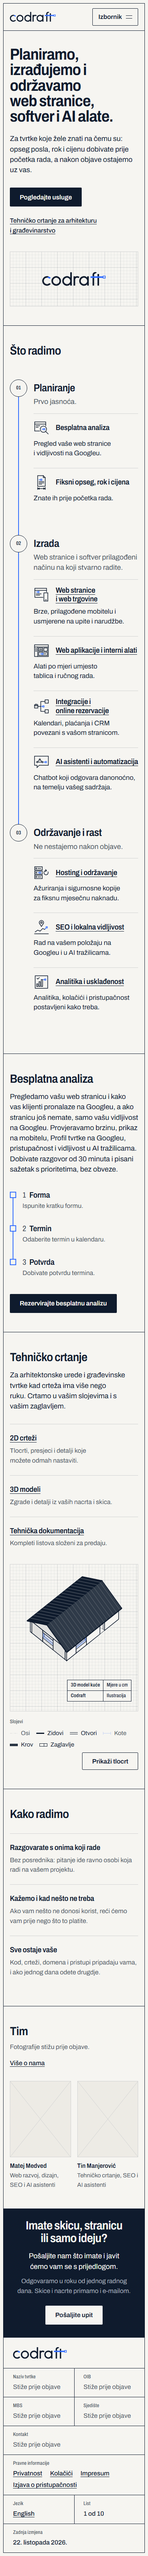
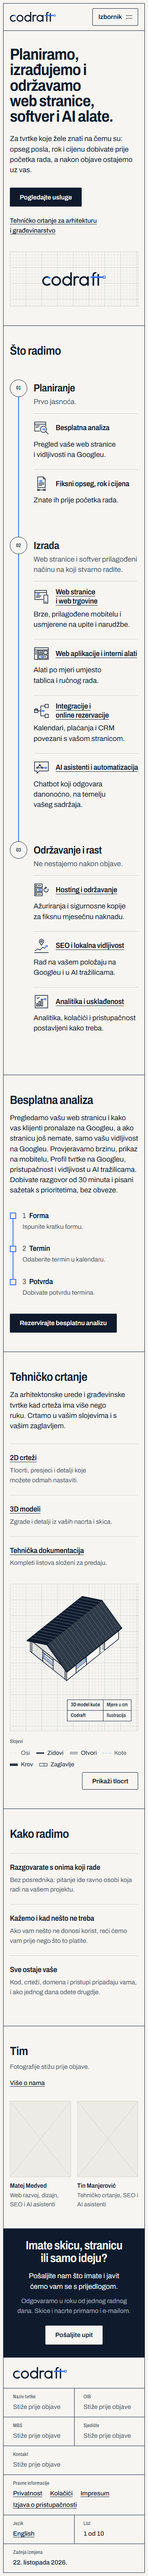
fix(home): one type scale, and drawings that never stay hidden
On the client's word (M3):
- the two local type sizes go (option A of #59, ADR 0030): the steps'
  titles at --step-title, the services' lines at --step-lead
- "Što radimo" hides its line and icons only once axis-line.ts has
  taken the axis over (is-live); before that they wait unseen from the
  first paint as before, and show complete after a 3 s failsafe if the
  script never takes over; when motion is turned on after load, the
  script takes over then
- before printing, draw.ts shows every waiting part's final state and
  finishes the moving ones, and the axis completes

diff --git a/src/views/home/axis-line.ts b/src/views/home/axis-line.ts
@@ -19,12 +19,18 @@
  * - An IntersectionObserver switches the scroll handling on only while the
  *   section is near the screen.
  *
+ * - The script takes the axis over (`is-live`); only then does the CSS hide
+ *   what it draws. If it comes later than the CSS's failsafe, which by then
+ *   shows the axis complete, it leaves the axis so. If motion is turned on
+ *   after the page has loaded, it takes over then. Before printing it
+ *   completes the axis (the /check of phase 3).
+ *
  * Only the line and the icons wait; the text never does. Without
  * JavaScript, or with reduced motion, the CSS shows them complete and this
  * script does nothing.
  */
 import { timeStrokes } from "../../features/services/icons/icon-draw.ts";
-import { DURATION_MS, prefersReducedMotion } from "../../styles/motion.ts";
+import { DURATION_MS, REDUCED_MOTION_QUERY } from "../../styles/motion.ts";
 
 /** The tip aims at this share of the screen's height. */
 const AIM = 0.85;
@@ -129,6 +135,12 @@ function startPassed(axis: Axis, instantUpTo: number): void {
 function init(root: HTMLElement): void {
   const line = root.querySelector<HTMLElement>("[data-axis-line]");
   if (line === null) return;
+  // Past its failsafe the CSS already shows the axis complete: leave it so.
+  const stroke = root.querySelector("[data-stroke]");
+  if (stroke !== null && getComputedStyle(stroke).visibility === "visible") {
+    return;
+  }
+  root.classList.add("is-live");
   const axis: Axis = {
     root,
     line,
@@ -207,12 +219,36 @@ function init(root: HTMLElement): void {
     window.removeEventListener("scroll", wake);
   }
 
+  // A printed page shows the axis complete.
+  window.addEventListener(
+    "beforeprint",
+    () => {
+      axis.aim = axis.length;
+      axis.tip = axis.length;
+      render(axis);
+      for (const service of axis.waiting) {
+        service.item.classList.add("is-drawn", "is-instant");
+      }
+      axis.waiting = [];
+      stop();
+    },
+    { once: true },
+  );
+
   near.observe(root);
   resize.observe(root);
 }
 
-if (!prefersReducedMotion()) {
+function start(): void {
   for (const root of document.querySelectorAll<HTMLElement>("[data-axis]")) {
     init(root);
   }
+}
+
+const reducedMotion = window.matchMedia(REDUCED_MOTION_QUERY);
+if (reducedMotion.matches) {
+  // Motion turned on after the page has loaded: the axis takes over then.
+  reducedMotion.addEventListener("change", start, { once: true });
+} else {
+  start();
 }

diff --git a/src/views/home/services.css b/src/views/home/services.css
@@ -7,8 +7,8 @@
 
 .svc {
   --bubble: 2.75rem;
-  /* The services' one line, larger than body text (review batch 3). */
-  --step-service: clamp(1.0625rem, 1rem + 0.2vw, 1.1875rem);
+  /* How long the line and the icons wait unseen for axis-line.ts. */
+  --axis-failsafe: 3s;
 }
 
 .svc > h2 {
@@ -76,12 +76,22 @@
 }
 
 @media (prefers-reduced-motion: no-preference) {
-  /* One line, set by the script, in place of the rails. */
-  .js [data-axis] .svc-rail {
+  /* Until axis-line.ts takes the axis over (`is-live`), the rails and the
+     icons wait unseen from the first paint, so they never flash complete.
+     If the script never takes over (it failed to load, or came later than
+     --axis-failsafe), they show complete then (the /check of phase 3). */
+  .js [data-axis]:not(.is-live) :is(.svc-rail, [data-stroke]) {
+    visibility: hidden;
+    animation: axis-failsafe 0s var(--axis-failsafe) forwards;
+  }
+
+  /* Once the script has the axis: one line, set by it, in place of the
+     rails. */
+  [data-axis].is-live .svc-rail {
     display: none;
   }
 
-  .js .axis__line {
+  [data-axis].is-live .axis__line {
     display: block;
     transform: scaleY(var(--progress, 0));
   }
@@ -89,7 +99,7 @@
   /* An icon isn't there until its row starts; then its strokes run along
      their paths (icon-draw.ts) and the grip snaps in. Once drawn, a stroke
      is plain again. */
-  .js [data-axis-item]:not(.is-drawn) [data-stroke] {
+  [data-axis].is-live [data-axis-item]:not(.is-drawn) [data-stroke] {
     opacity: 0;
   }
 
@@ -104,6 +114,20 @@
     transform-origin: center;
     animation: icon-grip var(--motion-fast) var(--ease-spring) var(--at, 0ms)
       backwards;
+  }
+}
+
+/* A printed page shows the axis complete; axis-line.ts completes a live
+   one before printing. */
+@media print {
+  .js [data-axis]:not(.is-live) :is(.svc-rail, [data-stroke]) {
+    visibility: visible;
+  }
+}
+
+@keyframes axis-failsafe {
+  to {
+    visibility: visible;
   }
 }
 

diff --git a/src/components/ui/draw.ts b/src/components/ui/draw.ts
@@ -25,6 +25,10 @@
  * R2). A part with `data-draw-steady` keeps its own pace: it never hurries,
  * so a part behind it waits for the whole of it (the floor plan, R3).
  *
+ * A printed page shows every part complete: before printing, the parts
+ * still waiting show their final state and the moving ones finish (the
+ * /check of phase 3).
+ *
  * Imported by the components' scripts; a module runs once per page however
  * many components import it.
  */
@@ -305,9 +309,24 @@ function initWordmarkEntrances(): void {
   }
 }
 
+/** Before printing, every part shows its final state. */
+function initPrint(): void {
+  window.addEventListener("beforeprint", () => {
+    waiting.length = 0;
+    requested.clear();
+    for (const part of document.querySelectorAll(".is-pending")) {
+      if (!part.classList.contains("is-drawing")) {
+        part.classList.remove("is-pending");
+      }
+    }
+    for (const part of moving.keys()) finish(part);
+  });
+}
+
 if (!prefersReducedMotion()) {
   initDraws();
   initBottomOfPage();
   initReplays();
   initWordmarkEntrances();
+  initPrint();
 }

diff --git a/docs/phases/3-pages.md b/docs/phases/3-pages.md
@@ -1,6 +1,6 @@
 # Phase 3: Pages (Izrada stranica)
 
-- **Status:** In progress, from 2026-10-22. Phase 2 was approved and merged into `main` (PR #2). Page 1, Početna: built in both languages, critique 19 done, `/check` with no CRITICAL or HIGH findings; waiting for the client's review and the decision on the two local type sizes (#59).
+- **Status:** In progress, from 2026-10-22. Phase 2 was approved and merged into `main` (PR #2). Page 1, Početna: built in both languages, critique 19 and #59 done (ADR 0030), the /check fixes the client approved done (M3); waiting for the client's word on Home before page 2, Usluge.
 - **Branch:** `phase/3-pages`, created from `main` after the merge of PR #2. Draft PR #3 is the phase report.
 
 ## Start here (2026-10-21)
@@ -91,7 +91,7 @@ The AI asistenti page is built in phase 4.
 The client moved these items from the phase 2 review to this phase (review batch 23, 2026-10-21, and #59; [2-design-review.md](2-design-review.md#refinements)):
 
 - **English copy** (#70): S17–S19 and every Croatian change of the review, aligned page by page as each page is built in both languages. The changes are listed in [content.md](../content.md) ("Prototype copy" and the changelog): the hero lead, the one-line services, `drafting.3d.*`, the drafting zone of batch 9, "Kako radimo" of batch 10, the closing call to action of batch 11, the floor plan's title block and accessible names (#58, #63–64). The English changes only through suggestions the client approves.
-- **Home's two local type sizes** (#59): when "Što radimo" moves out of the lab, decide whether `--step-service` (19 px at 1440, `src/lab/home/services.css`) and `--step-heading` (25 px, `Steps.astro`) become steps of the type scale or merge into their neighbours; with `--step-title` at 22 px they are three sizes 3 px apart ([inspector's note](../research/2026-10-20-taste-skill-inspect.md#measured-and-real-but-not-defects)).
+- **Home's two local type sizes** (#59): ✓ decided on 2026-10-22, option A ([ADR 0030](../decisions/0030-steps-and-service-lines-on-the-type-scale.md)). When "Što radimo" moves out of the lab, decide whether `--step-service` (19 px at 1440, `src/lab/home/services.css`) and `--step-heading` (25 px, `Steps.astro`) become steps of the type scale or merge into their neighbours; with `--step-title` at 22 px they are three sizes 3 px apart ([inspector's note](../research/2026-10-20-taste-skill-inspect.md#measured-and-real-but-not-defects)).
 - **The Kowalski proposals** (#71), for the client to choose from while the pages are built: a 320 px overflow check, worst-case data in the phase documents, a motion-code checklist, a variant picker with replay ([research note](../research/2026-10-20-emil-kowalski-skills.md#proposed-for-the-client)).
 - **The browser bar's colour** (#72): navy `#0F1B2D` from the brand package, or the header's paper `#F6F5F1`. Try both on a real Android phone (DevTools can't show the bar), changing only the meta tag and the manifest copy in `public/`, never the brand masters; the client decides ([ADR 0026](../decisions/0026-emil-kowalski-skills-in-the-setup.md)).
 - **The hero's line count on 1440 px laptops** (#74): three lines there, two from about 1660 px. Check it with the client once every page is built; show both side by side before changing anything.
@@ -237,4 +237,14 @@ Each of the client's messages is recorded here verbatim before anything changes.
     - **LOW**, noted for the coming pages: the stages' anchors in `services.ts` are for `/usluge`; the view registry's type widens with the second view; the JSON-LD keeps one `@id` for both languages on purpose.
     - Screenshots from the build, final states: [screenshots/phase-3/](screenshots/phase-3/) (`pocetna-{hr,en}-{375,768,1440}.png`).
     - **E2E:** CI's first run failed before any test: Playwright's loader can't import the locale JSON through `t()` without an import attribute, so the smoke test reads the strings with `fs` (`18986e3`). All 51 E2E tests pass on the build locally (on port 4322, so the dev server on 4321 kept running) and in CI.
-  - **Open for the client** (put to the client with the page): the two local type sizes (#59); the MEDIUM findings above. The English footer's placeholder "Arrives before launch" takes two lines in the title block's narrow cells; it goes away with the company data.
+  - **M3**, the client's answer to the review, verbatim:
+
+    > 1. Idemo po A preopruci za lokalne veličine slova
+    > 2. Ako preopručaš popravak popravi
+  - **The two local type sizes (#59), option A** ([ADR 0030](../decisions/0030-steps-and-service-lines-on-the-type-scale.md)): the steps' titles at `--step-title` (22 px at 1440, were 25), the services' lines at `--step-lead` everywhere (1–2 px larger on phones). "Što radimo" is 53 px taller at 375 and 30 px at 768; from 1024 px no zone changes height. The lab follows in its steps, which are the shared component.
+  - **The /check fixes Claude recommended** (MEDIUM 1 and 4; 2 and 3 need no change):
+    - "Što radimo": `axis-line.ts` takes the axis over with `is-live`, and only then does the CSS hide what the script draws. Before that, from the first paint, the rails and the icons wait unseen as before, so nothing changes on screen; if the script never takes over, they show complete after a 3 s failsafe (`--axis-failsafe`), and if motion is turned on after the page has loaded, the script takes over then.
+    - Printing: before printing, `draw.ts` shows every waiting part's final state and finishes the moving ones (the plan, the steps, the zones' selections, on every page), and the axis completes; a print rule covers an axis the script never took over. Documented in [motion.md](../motion.md).
+    - Checked on the dev server and on the build under the CSP: with the axis script blocked, the rails and icons appear complete after 3.5 s; with reduced motion at load and motion turned on after, the script takes over and draws everything on the way down; before printing at the top of the page, nothing is hidden or pending and the line is complete. The normal path is unchanged: every part draws after a slow scroll, nothing is hidden without JavaScript, no console errors, axe clean, no overflow at 375, 768 and 1440 px; `npm run verify` (178 unit tests, 4.2 KB of JavaScript on Home); E2E 51 on the build.
+    - The screenshots in [screenshots/phase-3/](screenshots/phase-3/) are retaken from this build.
+  - **Open for the client** (put to the client with the page): the two local type sizes (#59); the MEDIUM findings above. Both answered in M3, below. The English footer's placeholder "Arrives before launch" takes two lines in the title block's narrow cells; it goes away with the company data.

diff --git a/PROGRESS.md b/PROGRESS.md
@@ -2,7 +2,7 @@
 
 **Trenutna faza:** 3 — Izrada stranica, od 22. 10. 2026., na grani `phase/3-pages`. Izvještaj faze je draft PR #3: https://github.com/matejmedo0/codraft-website/pull/3. Faza 2 (Dizajn) je gotova i odobrena: na vaše „idemo dalje“ 22. 10. 2026. spojena je u `main` (PR #2, merge commit).
 
-**Sljedeći korak:** vaš pregled početne. Izrađena je na `/` i `/en` po odobrenom argumentu (vaš OK, 22. 10. 2026.), s vrijednostima na skali tokena (nalaz 19); `/check` nema CRITICAL ni HIGH nalaza. Čekam vaš pregled i odluku o dvije lokalne veličine slova (#59). Plan faze i koraci za svaku stranicu su u `docs/phases/3-pages.md`. Vaše poruke su doslovno u njegovu dnevniku, označene M1, M2, …
+**Sljedeći korak:** stranica 2, Usluge, na vašu riječ. Početna je izrađena na `/` i `/en` po odobrenom argumentu (vaš OK, 22. 10. 2026.), s vrijednostima na skali tokena (nalaz 19), bez lokalnih veličina slova (#59, ADR 0030) i s popravcima iz `/check` koje ste odobrili. Plan faze i koraci za svaku stranicu su u `docs/phases/3-pages.md`. Vaše poruke su doslovno u njegovu dnevniku, označene M1, M2, …
 
 Redoslijed stranica u fazi 3, svaka na hrvatskom i engleskom:
 1. Početna ← sada
@@ -24,7 +24,7 @@ Podatke od vas (tim, podaci o tvrtki, kontakt…) tražim tek kad ih stranica tr
 - prijedlozi iz procjene Kowalskijevih skillova: provjera preljeva na 320 px, najgori podaci u dokumentima faza, popis pravila za kod animacija, birač varijanti u labu
 - boja trake preglednika na mobitelu (`theme-color`), tamnoplava ili papirnata, isprobana na pravom Android mobitelu (dorada 51; Taste Skill ide u prilog papirnatoj, dorada 55)
 - naslov u heroju na laptopima od 1440 px (sada tri reda), kad sve stranice budu gotove
-- dvije lokalne veličine slova na početnoj
+- ✓ dvije lokalne veličine slova na početnoj (opcija A, ADR 0030)
 - skupina C prve kritike dizajna: hero na 1024 px (6), traka tima (14), vrijednosti izvan skale tokena (19) i tekst (22)
 - vaše čitanje i ispravljanje svih tekstova, na kraju faze 3, za sve stranice zajedno
 
@@ -242,6 +242,7 @@ Svaka odluka ima svoj ADR u `docs/decisions/`.
 | 2026-10-20 | Taste Skill ne instaliramo. Iz njega smo preuzeli:<br>- pet provjera za `design-critic` (okvir stranice, ideja do zadnje zone, test „kostima“, tri razine detalja u crtežima, hrvatske tipografske sitnice)<br>- animacije vezane uz skrol i prijelaze između stranica u skillu `animate`<br>- argument stranice (tvrdnja i dokaz po zoni) kao prvi korak svake stranice u fazi 3<br>Kod stranice se ne mijenja. | [ADR 0027](docs/decisions/0027-taste-skill-ideas-in-the-setup.md) |
 | 2026-10-21 | „Što radimo“ na mobitelu: ikona usluge stoji samo uz naslov, a opis ide ispod nje punom širinom (opcija B iz kritike); od 768 px sve ostaje kao u ADR 0022 | [ADR 0028](docs/decisions/0028-service-icons-on-phones-beside-the-title.md) |
 | 2026-10-22 | Engleski: tehničko crtanje se zove „Architectural Drafting“ (`/en/architectural-drafting`), britanski pravopis, „Croatia“ u engleskim naslovima stranica | [ADR 0029](docs/decisions/0029-english-naming-spelling-and-titles.md) |
+| 2026-10-22 | Bez lokalnih veličina slova: naslovi koraka na veličini ostalih naslova, retci usluga na veličini uvoda (opcija A, #59) | [ADR 0030](docs/decisions/0030-steps-and-service-lines-on-the-type-scale.md) |
 
 ## Sitemap
 

diff --git a/docs/motion.md b/docs/motion.md
@@ -22,7 +22,7 @@ The client asked for animation that is high quality and **not generic**. The con
 - **The line** is one element from bubble 01 to bubble 03, scaled from its top. Its tip follows the screen continuously (batch 15): it reaches down to 85 % of the screen's height as you scroll, eased so that a fast scroll is caught up in about `--motion-follow` (280 ms), smoothly and never in a jerk. It only ever grows; nothing runs backwards when you scroll up. No scroll-jacking: the page scrolls as always, and the line only follows.
 - **The icon** starts as the tip of the line reaches it: its strokes run along their paths in drawing order, at most 60 ms apart, the blue drafting line last, then the grip snaps in (`--motion-fast`, `--ease-spring`). An icon takes at most 450 ms. The right icon of a row starts 40 ms after the left; if the tip passes several rows in one frame, each further row starts 60 ms later. The services below the line's end start when the screen's 85 % mark reaches them.
 - Services already above the screen (a reload mid-page, a jump from a link) show their icons complete at once, and the line jumps past them.
-- Only the line and the icons wait; the text is always there. Their waiting state is set under the `js` class from the first paint. Without JavaScript the line and icons are complete; with reduced motion too. An IntersectionObserver switches the scroll handling on only while the section is near the screen; `will-change` is set only while the line moves.
+- Only the line and the icons wait; the text is always there. Their waiting state is set under the `js` class from the first paint. Without JavaScript the line and icons are complete; with reduced motion too. Once the script takes the axis over (`is-live`) it owns the waiting state; if it never does (it failed to load, or came after a 3 s failsafe), the line and icons show complete. When motion is turned on after the page has loaded, the script takes over then (phase 3, M3). An IntersectionObserver switches the scroll handling on only while the section is near the screen; `will-change` is set only while the line moves.
 
 The earlier behaviour of batch 3 (one stroke at a constant speed once the section reached its trigger) left the lab with its comparison page `/lab/sto-radimo` (review #108); it is in git history.
 
@@ -54,6 +54,8 @@ When `prefers-reduced-motion: reduce` is set:
 - Final states are shown immediately. The logo appears complete and the layers appear all on.
 - Grips still appear on focus, but without the scale animation.
 - Movement goes; meaning stays. Focus, hover, the open menu and every other change of state stay visible, at once or with a short fade, and nothing waits hidden for an animation that never runs ([ADR 0025](decisions/0025-browser-details-and-critique-re-check.md)).
+
+**Printing.** A printed page shows every part complete: before printing, `draw.ts` shows the waiting parts' final states and finishes the moving ones, and the axis in "Što radimo" completes (phase 3, M3).
 
 ## Tokens (built in phase 2, `src/styles/motion.css`)
 

diff --git a/docs/decisions/0030-steps-and-service-lines-on-the-type-scale.md b/docs/decisions/0030-steps-and-service-lines-on-the-type-scale.md
@@ -1,0 +1,20 @@
+# 0030. The steps' titles and the services' lines on the type scale
+
+- **Status:** Accepted
+- **Date:** 2026-10-22
+- **Deciders:** client (Codraft team), Claude
+
+## Context
+
+Home had two type sizes of its own, outside the scale in `src/styles/tokens.css`: `--step-heading` for the titles of the free audit's steps (`Steps.astro`; 20 px on phones, 25 px at 1440 px) and `--step-service` for the services' one-line descriptions in "Što radimo" (`services.css`; 17–19 px, below 64rem). With `--step-title` at 19–22 px they made three sizes about 3 px apart ([inspector's note](../research/2026-10-20-taste-skill-inspect.md#measured-and-real-but-not-defects)). The client moved the decision to phase 3 (review #59). Claude put two options to the client: A, merge each into its neighbour on the scale; B, keep both and name them as tokens. The client chose A (phase 3, M3: „Idemo po A preopruci za lokalne veličine slova“).
+
+## Decision
+
+1. **The steps' titles use `--step-title`,** like every other item title: 19 px on phones, 22 px at 1440 px (were 20 and 25).
+2. **The services' lines use `--step-lead` at every width.** From 64rem nothing changes (they already were at the lead size, review #102); on phones they grow by 1–2 px.
+3. The services' titles in "Što radimo" keep their larger size from 64rem (about 24 px at 1440, the client's choice in review #102).
+
+## Consequences
+
+- The type scale has no local sizes left besides #102's.
+- On Home, "Što radimo" is 53 px taller at 375 px and 30 px at 768 px; from 1024 px the zone heights don't change. The steps change wherever `Steps.astro` is used, the lab included.
